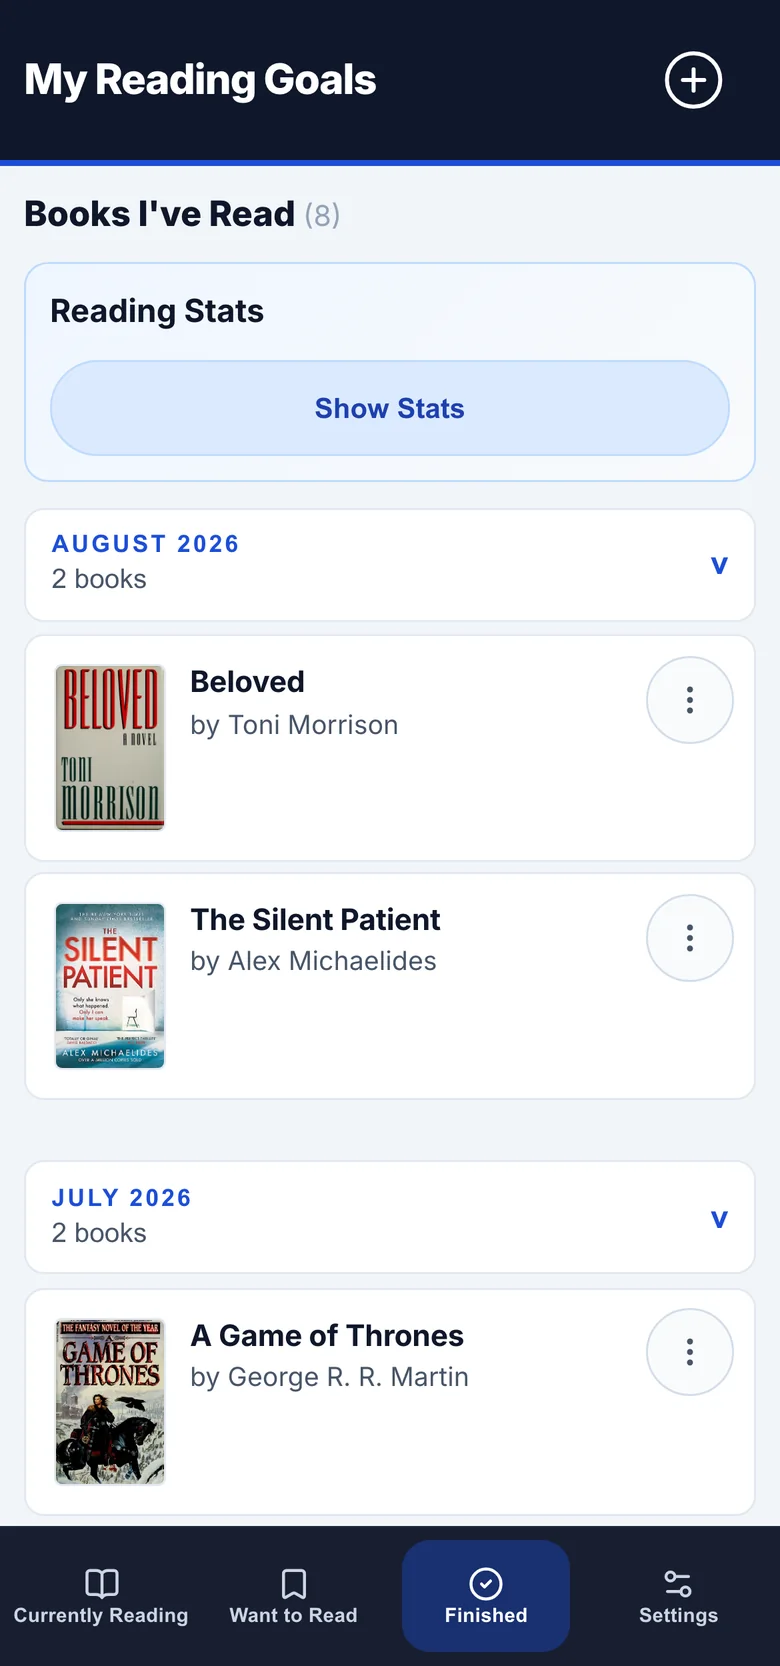
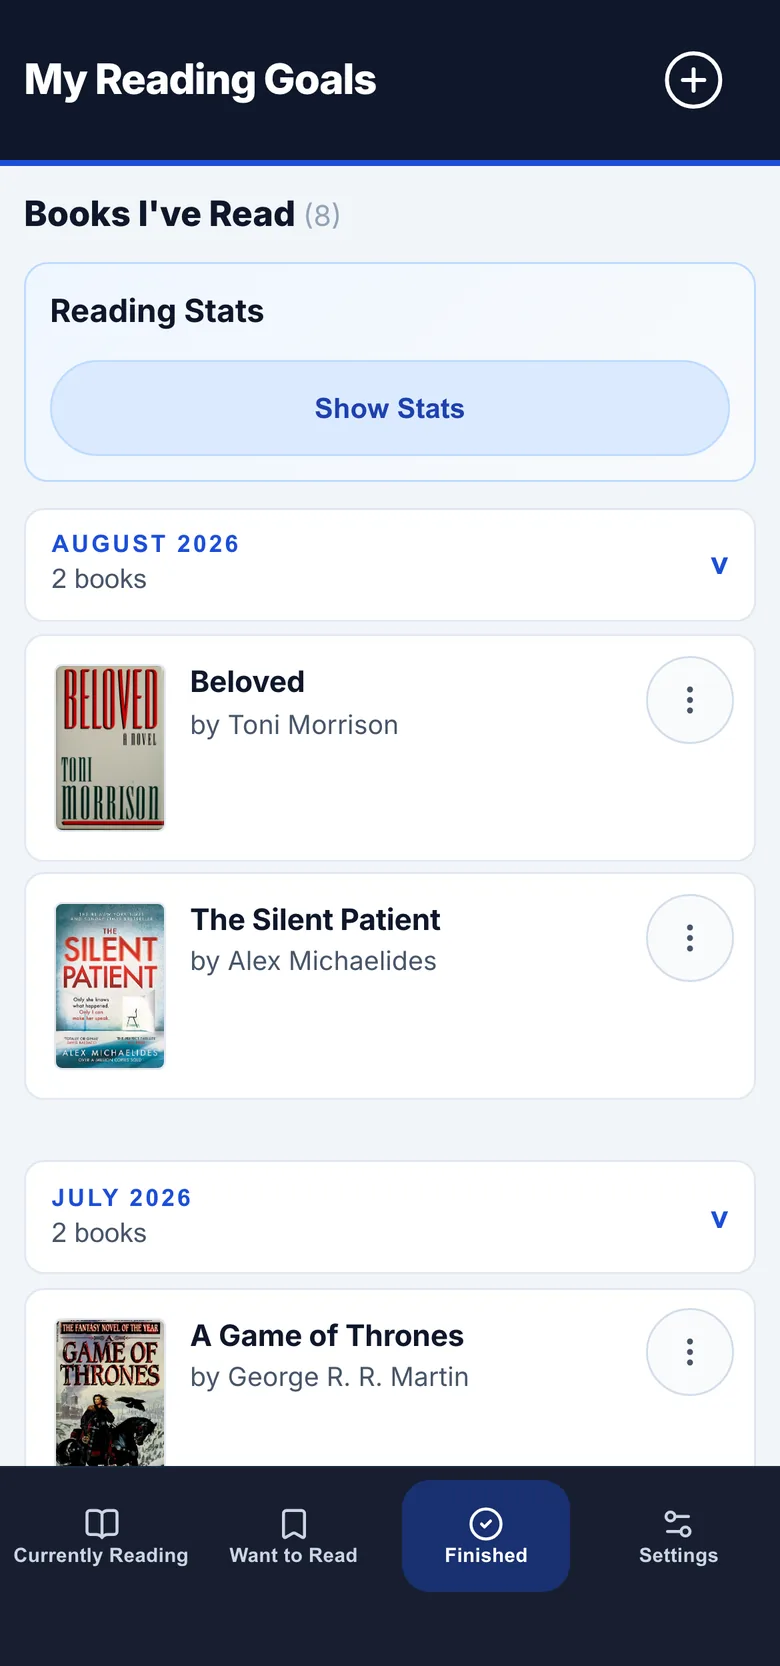
Capture the demo screens with a real phone safe area (#32)
* Capture the demo screens with a real phone safe area

The first bottom-nav label grazed the rounded corner of the phone in the
landing page hero, so the C of Currently read as shaved.

Measured rather than guessed. The screen corner radius is 33px from 820px
up. In the old screenshots the leftmost pixel of the label sat 4.7px from
the screen edge and 17.3px above the bottom, which clears the arc by
0.7px. At 320px the margin was 0.8px. Nothing was geometrically cut, but
at that distance the antialiased arc and the antialiased stem of the
letter overlap, which is what the eye picks up.

The screenshots were the fault, not the frame. The nav uses

  padding-bottom: max(env(safe-area-inset-bottom, 0), 0.25rem)

On a phone that resolves to 34px and lifts the labels clear. Headless
Chrome reports the inset as 0, so it fell back to 4px and the nav sat
flush on the screen edge, right where the arc bites. The frame had device
chrome without the matching device inset.

Chrome can emulate the inset, so no CSS is faked: send
Emulation.setSafeAreaInsetsOverride with bottom 34 over CDP before
navigating. The nav grows from 70 to 100 CSS px and the label now sits
36.3px above the bottom, entirely outside the 33px arc, at every width
from 320 to 1440.

Two capture faults are fixed at the same time.

The wait for the book covers was built on

  [...document.images].every(i => i.complete && i.naturalWidth > 0)

The list renders only after the API responds, so at domcontentloaded that
[…]

Changed region(s): [[0.0, 0.8739, 1.0, 0.9988], [0.4, 0.9676, 0.4615, 0.9988]]

diff --git a/CONTRIBUTING.md b/CONTRIBUTING.md
@@ -123,7 +123,7 @@ Image.open("s1.png").convert("RGB").resize((780, 1666), Image.LANCZOS) \
 ```
 
 780x1666 is twice the 390x833 capture viewport, so the screen stays sharp on
-a 2x display. All seven come to about 317 KB, and only the first one loads
+a 2x display. All seven come to about 308 KB, and only the first one loads
 before the visitor scrolls.
 
 The captions live in `docs/index.html` on each dot button, as `data-title`
@@ -150,6 +150,27 @@ dots, and one phone screenshot.
 Slides 1 and 2 show the book before you log progress. Slides 3 to 7 show it
 after. Change `server/data/books.json` to stage each state, and keep a backup.
 That file is in `.gitignore`. Make sure it stays untracked.
+
+Re-seed that file immediately before **every** capture run, not once at the
+start. Scene 2 clicks the Pages unit toggle, and the app saves that choice to
+the book at once. Re-running the first scenario without re-seeding therefore
+captures scene 1 in pages mode, which disagrees with the percent history in
+scene 3.
+
+Two settings decide whether the capture is usable:
+
+- Emulate the phone safe area. Send `Emulation.setSafeAreaInsetsOverride` with
+  `{ insets: { bottom: 34 } }` over CDP before you navigate. The bottom nav
+  uses `max(env(safe-area-inset-bottom, 0), 0.25rem)`, and headless Chrome
+  reports that inset as 0, so the nav lands 4px from the screen edge instead
+  of 34px. The phone frame on the landing page has a 33px corner radius and
+  `overflow: hidden`, so at 4px the first tab label appears shaved because the
+  two antialiased edges overlap, although it clears the arc.
+- Wait for the covers properly. The list renders only after the API responds,
+  so at `domcontentloaded` `document.images` is still empty, and `[].every()`
+  is `true`. A wait built only on that check returns at once and screenshots a
+  blank cover. Wait for `.bottom-nav`, then `networkidle`, and only then check
+  that every image is complete. Print the loaded count with each shot.
 
 Capture the screens at a 390x833 viewport with `deviceScaleFactor: 3`. Each
 slide is 1920x1080 on `#F8FAFC`:
